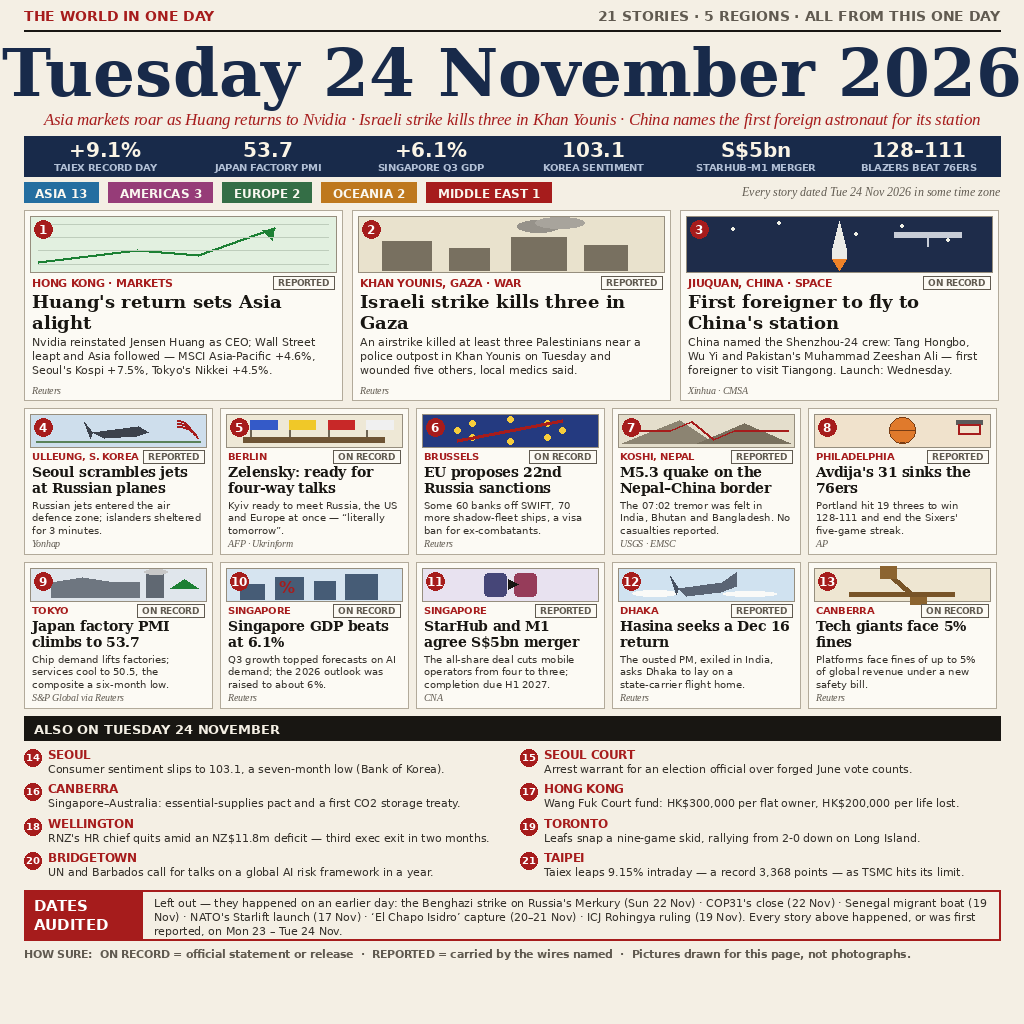
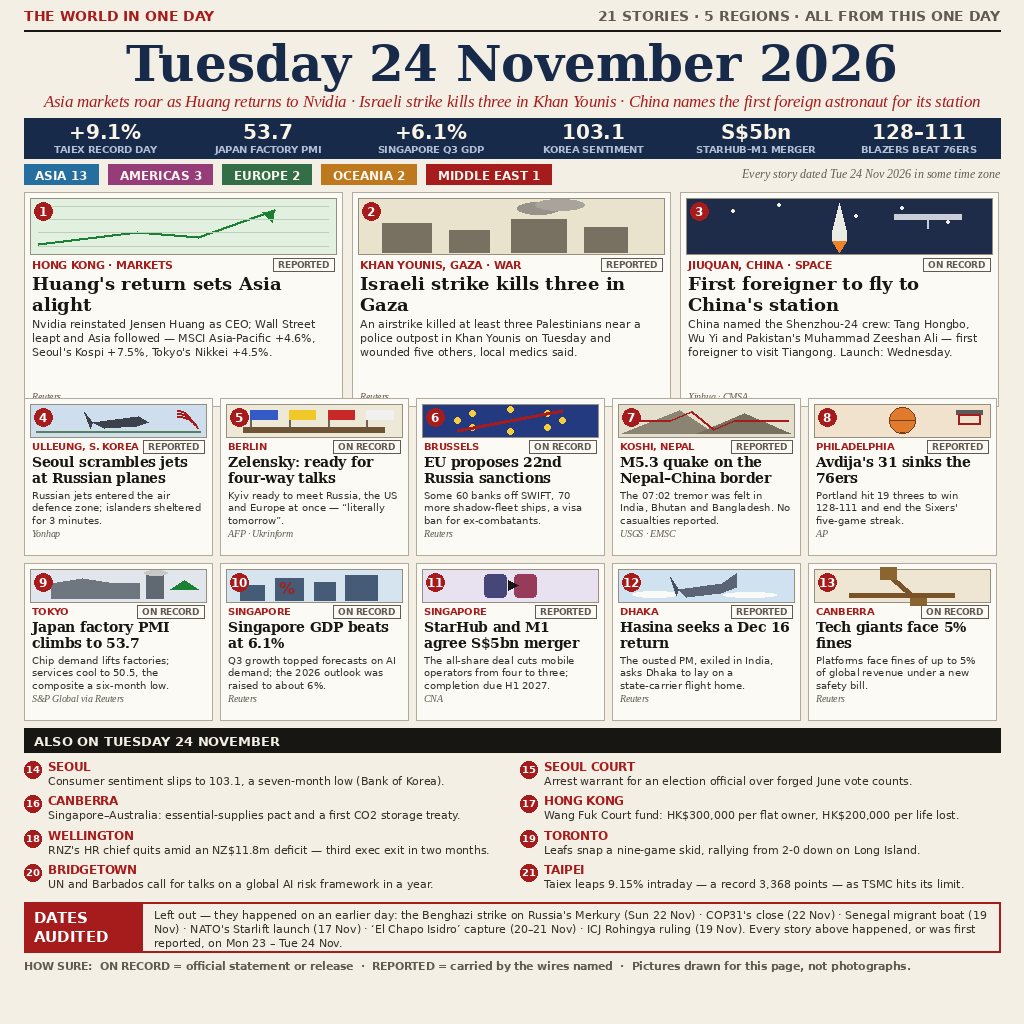
v5: shrink date title 66->50px, taller cards

Changed region(s): [[0.0, 0.0312, 1.0, 0.9688]]

diff --git a/build_poster.py b/build_poster.py
@@ -145,12 +145,12 @@ r = "21 STORIES \u00b7 5 REGIONS \u00b7 ALL FROM THIS ONE DAY"
 d.text((W - MX - d.textlength(r, font=F(SANS_B, 14)), 8), r, font=F(SANS_B, 14), fill=GREY)
 d.line([(MX, 30), (W - MX, 30)], fill=INK, width=2)
 t = "Tuesday 24 November 2026"
-d.text(((W - d.textlength(t, font=F(SERIF_B, 66))) / 2, 34), t, font=F(SERIF_B, 66), fill=NAVY)
+d.text(((W - d.textlength(t, font=F(SERIF_B, 50))) / 2, 34), t, font=F(SERIF_B, 50), fill=NAVY)
 sub = "Asia markets roar as Huang returns to Nvidia \u00b7 Israeli strike kills three in Khan Younis \u00b7 China names the first foreign astronaut for its station"
-d.text(((W - d.textlength(sub, font=F(SERIF_I, 16.5))) / 2, 110), sub, font=F(SERIF_I, 16.5), fill=RED)
+d.text(((W - d.textlength(sub, font=F(SERIF_I, 16.5))) / 2, 92), sub, font=F(SERIF_I, 16.5), fill=RED)
 
 # ---------------- numbers band ----------------
-NY = 136
+NY = 118
 d.rectangle([MX, NY, W - MX, NY + 40], fill=NAVY)
 stats = [("+9.1%", "TAIEX RECORD DAY"), ("53.7", "JAPAN FACTORY PMI"), ("+6.1%", "SINGAPORE Q3 GDP"),
          ("103.1", "KOREA SENTIMENT"), ("S$5bn", "STARHUB\u2013M1 MERGER"), ("128\u2013111", "BLAZERS BEAT 76ERS")]
@@ -161,7 +161,7 @@ for i, (num, lab) in enumerate(stats):
     d.text((sx + (sw - d.textlength(lab, font=F(SANS_B, 9.5))) / 2, NY + 26), lab, font=F(SANS_B, 9.5), fill=(178, 192, 214))
 
 # ---------------- region chips ----------------
-RY = 182
+RY = 164
 chips = [("ASIA 13", (36, 110, 160)), ("AMERICAS 3", (150, 60, 120)), ("EUROPE 2", (52, 110, 70)),
          ("OCEANIA 2", (190, 120, 30)), ("MIDDLE EAST 1", (166, 28, 28))]
 cx = MX
@@ -197,7 +197,7 @@ def card(x, y, w, h, num, ill, dateline, headline, body, source, pill, big=False
     return cy
 
 # row 1 — three big cards
-R1Y, R1H = 210, 190
+R1Y, R1H = 192, 214
 CW3 = (CW - 20) // 3
 card(MX, R1Y, CW3, R1H, 1, "chart", "HONG KONG \u00b7 MARKETS",
      "Huang's return sets Asia alight",
@@ -214,7 +214,7 @@ card(MX + 2 * (CW3 + 10), R1Y, CW3, R1H, 3, "rocket", "JIUQUAN, CHINA \u00b7 SPA
 
 # rows 2-3 — five small cards each
 CW5 = (CW - 32) // 5
-R2Y, RSH = 408, 146
+R2Y, RSH = 398, 157
 row2 = [
     ("jet", "ULLEUNG, S. KOREA", "Seoul scrambles jets at Russian planes",
      "Russian jets entered the air defence zone; islanders sheltered for 3 minutes.", "Yonhap", "REPORTED"),
